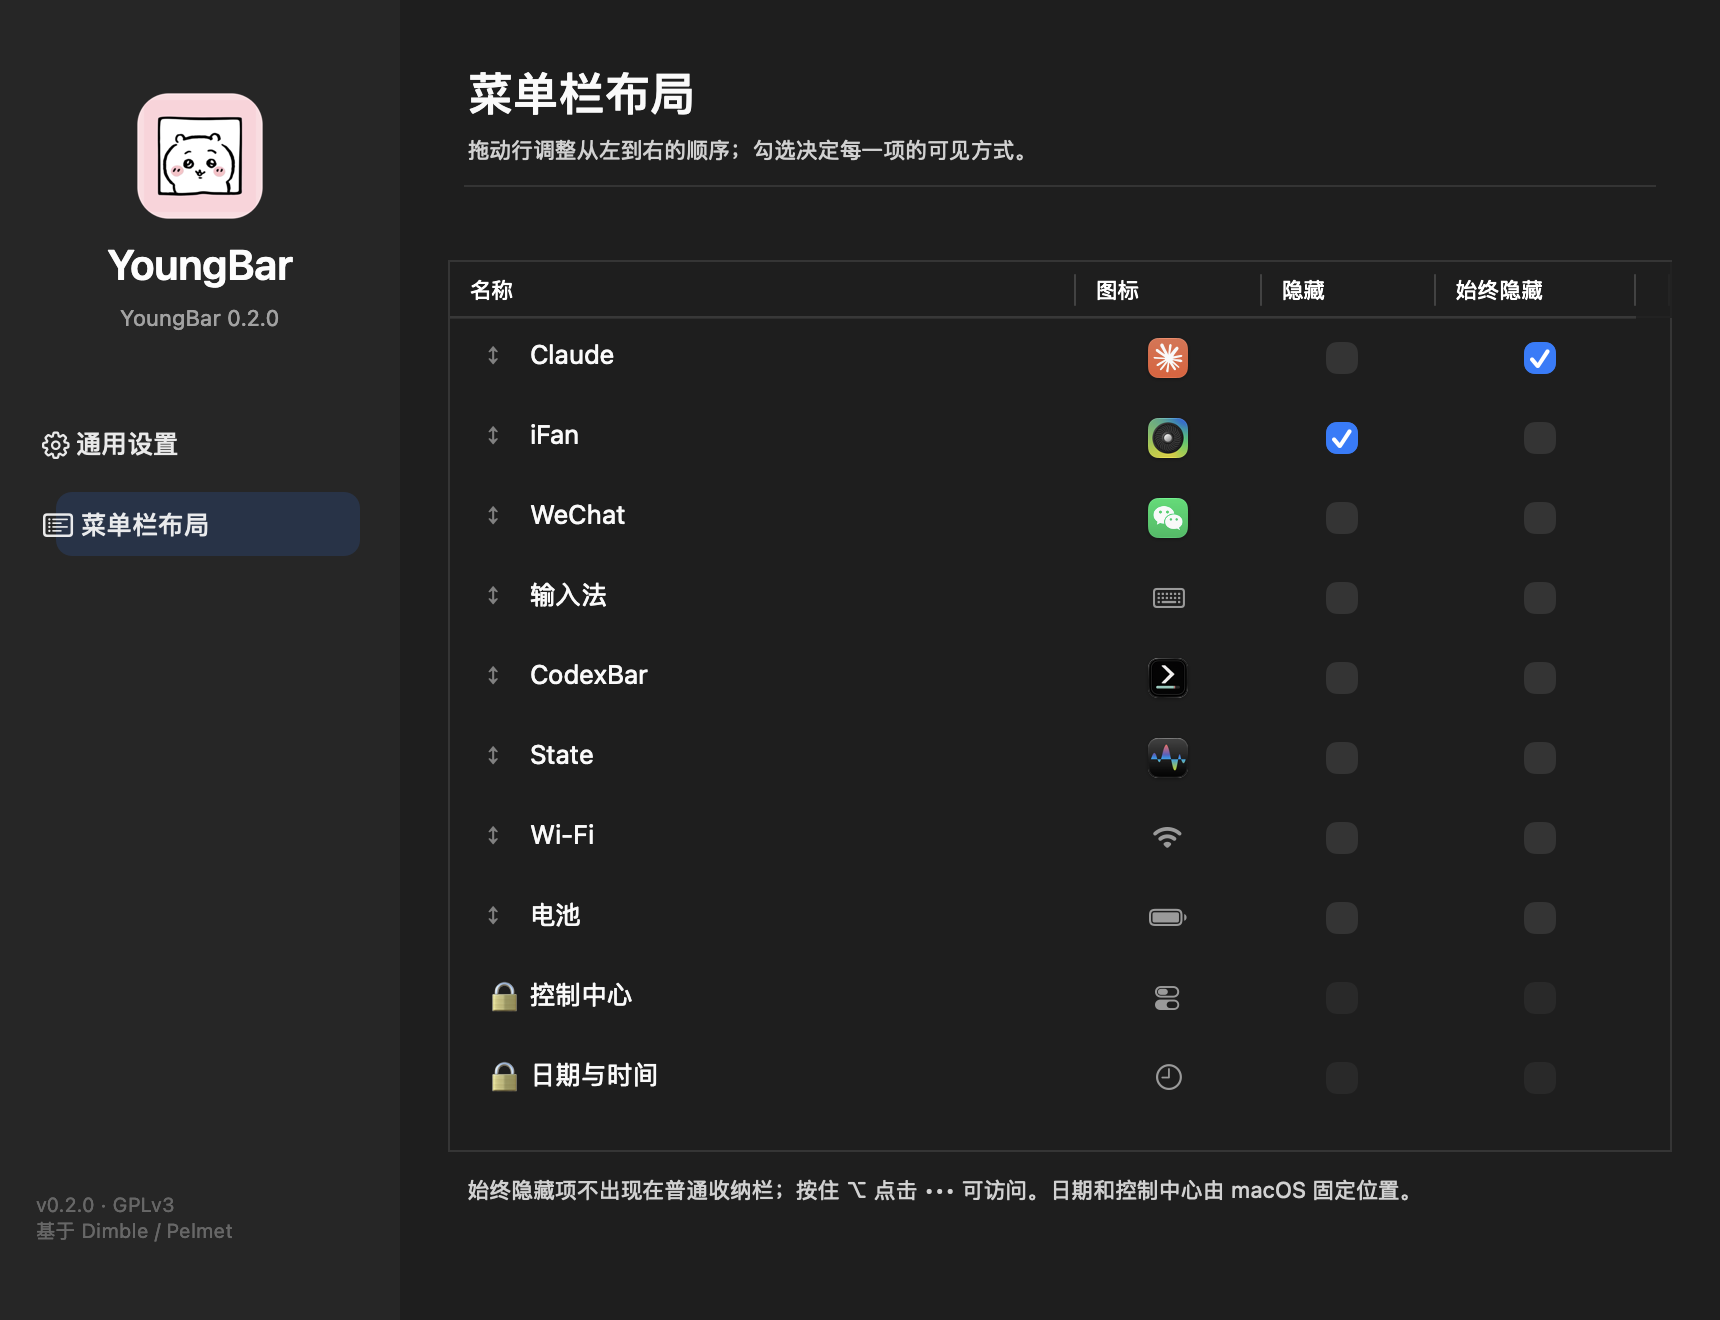
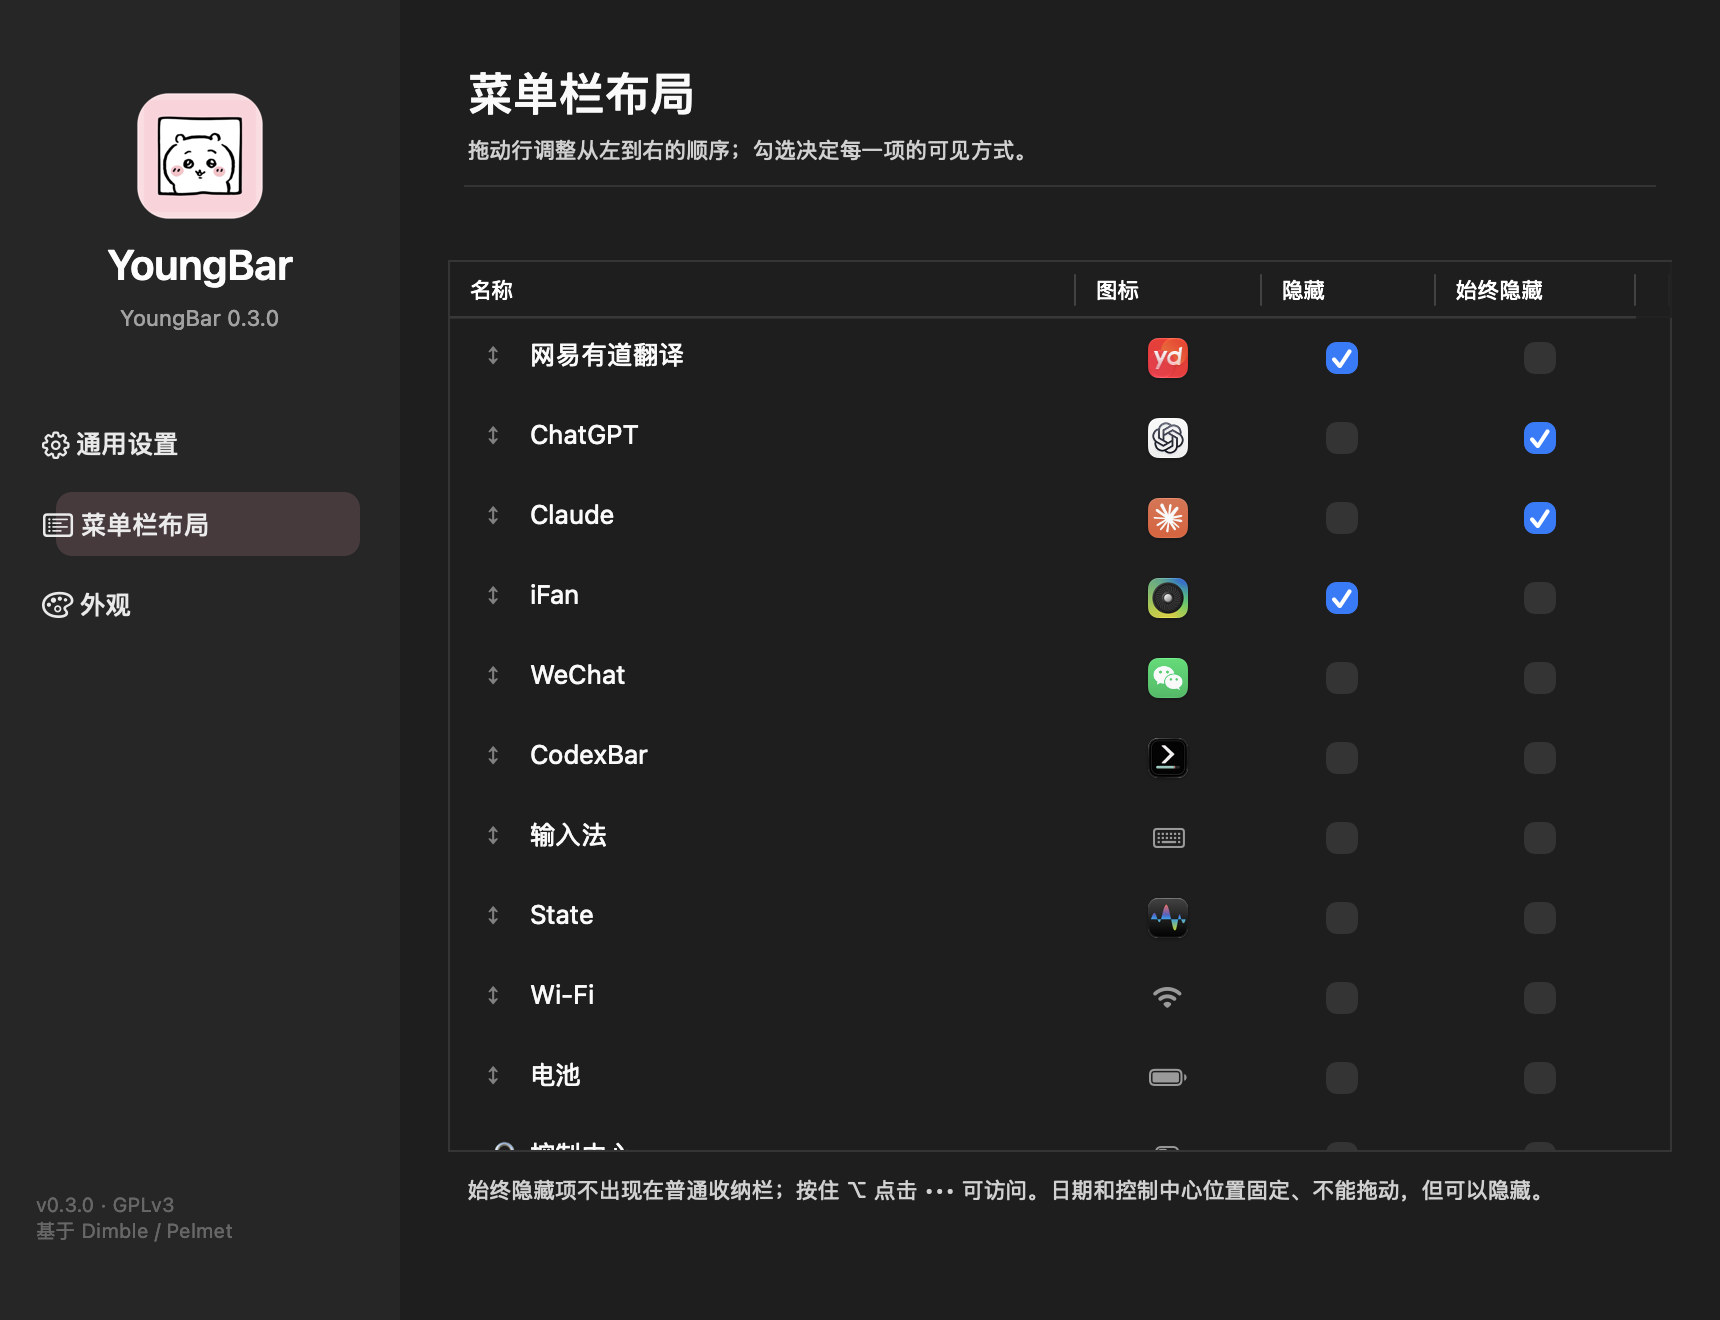
fix(youngbar): 布局顺序按真实位置校准；设置窗口改液态玻璃
- 新项按 frame.minX 插入，不再只追加内存
- 刷新时校准可见项顺序、去重并持久化 itemOrder
- 有道翻译现在排第一，与菜单栏实际位置一致
- 设置窗口 NSGlassEffectView + 主题 tint + 深浅 scrim
- 截图与第 125 轮日志

diff --git a/Sources/YoungBar/main.swift b/Sources/YoungBar/main.swift
@@ -157,6 +157,11 @@ final class BarApp: NSObject, NSApplicationDelegate {
             if ProcessInfo.processInfo.environment["YOUNGBAR_CONCEALTEST"] == "1" {
                 await runConcealTest()
             }
+            if ProcessInfo.processInfo.environment["YOUNGBAR_SETTINGSSHOT"] == "1" {
+                showWindow()
+                try? await Task.sleep(for: .milliseconds(700))
+                await captureScreen(to: "settings-full.png")
+            }
             if let raw = ProcessInfo.processInfo.environment["YOUNGBAR_CLOSEWINDOW_PID"], let pid = pid_t(raw) {
                 await runWindowCleanup(pid: pid)
             }
@@ -738,22 +743,67 @@ final class BarApp: NSObject, NSApplicationDelegate {
         for item in snapshot.items { present.insert(item.id.sectionKey.rawValue) }
         for id in snapshot.concealed { present.insert(id.sectionKey.rawValue) }
         presentKeys = present
-        for item in snapshot.items.sorted(by: { ($0.frame?.minX ?? .greatestFiniteMagnitude) < ($1.frame?.minX ?? .greatestFiniteMagnitude) }) where item.id.bundleID != Bundle.main.bundleIdentifier && MenuBarPolicy.isSectionManageable(item.id) {
+
+        var orderChanged = false
+        let deduped = uniqueKeys(savedOrder)
+        if deduped.count != savedOrder.count {
+            savedOrder = deduped
+            orderChanged = true
+        }
+        for item in snapshot.items.sorted(by: { ($0.frame?.minX ?? .greatestFiniteMagnitude) < ($1.frame?.minX ?? .greatestFiniteMagnitude) })
+        where item.id.bundleID != Bundle.main.bundleIdentifier && MenuBarPolicy.isSectionManageable(item.id) {
             let key = item.id.sectionKey.rawValue
             catalog[key] = item
-            if !savedOrder.contains(key) { savedOrder.append(key) }
+            if !savedOrder.contains(key), let frame = item.frame {
+                // New items belong where they actually sit, not at the end.
+                let index = savedOrder.firstIndex { existing in
+                    guard let existingFrame = catalog[existing]?.frame else { return false }
+                    return existingFrame.minX > frame.minX
+                } ?? savedOrder.endIndex
+                savedOrder.insert(key, at: index)
+                orderChanged = true
+            }
             if let bundle = item.id.bundleID, bundle != PelmetBundle.agentID {
                 knownBundles[bundle] = item.appName ?? appName(for: bundle)
             }
         }
         for id in snapshot.concealed where catalog[id.sectionKey.rawValue] == nil {
             catalog[id.sectionKey.rawValue] = ObservedItem(id: id, frame: nil, appName: nil)
-            if !savedOrder.contains(id.sectionKey.rawValue) { savedOrder.append(id.sectionKey.rawValue) }
+            if !savedOrder.contains(id.sectionKey.rawValue) {
+                savedOrder.append(id.sectionKey.rawValue)
+                orderChanged = true
+            }
         }
         for key in modes.keys where catalog[key] == nil {
             catalog[key] = ObservedItem(id: ItemID(rawValue: key), frame: nil, appName: nil)
-            if !savedOrder.contains(key) { savedOrder.append(key) }
+            if !savedOrder.contains(key) {
+                savedOrder.append(key)
+                orderChanged = true
+            }
         }
+        reconcileVisibleOrder(snapshot)
+        let finalOrder = uniqueKeys(savedOrder)
+        if finalOrder != savedOrder { savedOrder = finalOrder; orderChanged = true }
+        if orderChanged { UserDefaults.standard.set(savedOrder, forKey: "itemOrder") }
+    }
+
+    /// The table is the user's ordering model, but it must not drift from the
+    /// real bar. Whenever the visible items disagree with their saved order,
+    /// rewrite just those slots to the actual left-to-right order and persist.
+    private func reconcileVisibleOrder(_ snapshot: EngineSnapshot) {
+        guard !busy, !capturing else { return }
+        let actual = uniqueKeys(snapshot.items
+            .filter { $0.frame != nil }
+            .sorted { ($0.frame?.minX ?? 0) < ($1.frame?.minX ?? 0) }
+            .map { $0.id.sectionKey.rawValue })
+            .filter { savedOrder.contains($0) }
+        guard actual.count > 1 else { return }
+        let savedVisible = savedOrder.filter { actual.contains($0) }
+        guard savedVisible != actual else { return }
+        var iterator = actual.makeIterator()
+        savedOrder = savedOrder.map { actual.contains($0) ? (iterator.next() ?? $0) : $0 }
+        UserDefaults.standard.set(savedOrder, forKey: "itemOrder")
+        Task { await engine.setModel(currentModel()) }
     }
 
     private func name(for key: String) -> String {
@@ -773,6 +823,11 @@ final class BarApp: NSObject, NSApplicationDelegate {
         }
         if let bundle = id.bundleID { return knownBundles[bundle] ?? appName(for: bundle) }
         return key
+    }
+
+    private func uniqueKeys(_ keys: [String]) -> [String] {
+        var seen = Set<String>()
+        return keys.filter { seen.insert($0).inserted }
     }
 
     private func orderedKeys() -> [String] {

diff --git a/Sources/YoungBar/BarSettings.swift b/Sources/YoungBar/BarSettings.swift
@@ -24,6 +24,10 @@ final class BarSettings: NSObject, NSTableViewDataSource, NSTableViewDelegate {
     var onSpacing: ((Int) -> Void)?
 
     private let window: NSWindow
+    private let glass = NSGlassEffectView()
+    private let scrim = NSView()
+    private let sidebar = NSVisualEffectView()
+    private let sidebarTint = NSView()
     private let generalPage = NSView()
     private let layoutPage = NSView()
     private let appearancePage = NSView()
@@ -60,6 +64,10 @@ final class BarSettings: NSObject, NSTableViewDataSource, NSTableViewDelegate {
         super.init()
         window.title = "YoungBar"
         window.isReleasedWhenClosed = false
+        window.isOpaque = false
+        window.backgroundColor = .clear
+        window.titlebarAppearsTransparent = true
+        window.titleVisibility = .hidden
         window.center()
         window.contentView = buildRoot()
         selectPage("general")
@@ -70,13 +78,30 @@ final class BarSettings: NSObject, NSTableViewDataSource, NSTableViewDelegate {
     private func buildRoot() -> NSView {
         let root = NSView(frame: NSRect(x: 0, y: 0, width: 860, height: 660))
         root.wantsLayer = true
-        root.layer?.backgroundColor = NSColor.windowBackgroundColor.cgColor
+        root.layer?.backgroundColor = NSColor.clear.cgColor
 
-        let sidebar = NSVisualEffectView(frame: NSRect(x: 0, y: 0, width: 200, height: 660))
+        glass.frame = root.bounds
+        glass.autoresizingMask = [.width, .height]
+        glass.style = .regular
+        glass.cornerRadius = 0
+        root.addSubview(glass)
+
+        scrim.frame = root.bounds
+        scrim.autoresizingMask = [.width, .height]
+        scrim.wantsLayer = true
+        root.addSubview(scrim)
+
+        sidebar.frame = NSRect(x: 0, y: 0, width: 200, height: 660)
         sidebar.material = .sidebar
         sidebar.blendingMode = .withinWindow
         sidebar.state = .active
+        sidebar.wantsLayer = true
         root.addSubview(sidebar)
+
+        sidebarTint.frame = sidebar.bounds
+        sidebarTint.autoresizingMask = [.width, .height]
+        sidebarTint.wantsLayer = true
+        sidebar.addSubview(sidebarTint, positioned: .below, relativeTo: nil)
 
         let icon = NSImageView(frame: NSRect(x: 64, y: 546, width: 72, height: 72))
         let iconURL = Bundle.main.url(forResource: "AppIcon", withExtension: "icns")
@@ -119,7 +144,7 @@ final class BarSettings: NSObject, NSTableViewDataSource, NSTableViewDelegate {
 
         let content = NSView(frame: NSRect(x: 200, y: 0, width: 660, height: 660))
         content.wantsLayer = true
-        content.layer?.backgroundColor = NSColor.windowBackgroundColor.cgColor
+        content.layer?.backgroundColor = NSColor.clear.cgColor
         root.addSubview(content)
 
         generalPage.frame = content.bounds
@@ -411,6 +436,12 @@ final class BarSettings: NSObject, NSTableViewDataSource, NSTableViewDelegate {
             button.layer?.borderColor = NSColor.labelColor.cgColor
         }
         for button in navButtons.values { button.highlightColor = theme.accent }
+        glass.tintColor = theme.accent.withAlphaComponent(0.10)
+        sidebarTint.layer?.backgroundColor = theme.accent.withAlphaComponent(0.08).cgColor
+        let isDark = NSApp.effectiveAppearance.bestMatch(from: [.darkAqua, .aqua]) == .darkAqua
+        scrim.layer?.backgroundColor = (isDark
+            ? NSColor.black.withAlphaComponent(0.46)
+            : NSColor.white.withAlphaComponent(0.58)).cgColor
         emptyLabel.isHidden = !entries.isEmpty
         emptyLabel.stringValue = axTrusted ? "正在读取菜单栏图标…" : "需要辅助功能权限后才能读取菜单栏项目。" 
     }

diff --git a/docs/STATUS.md b/docs/STATUS.md
@@ -38,6 +38,8 @@
 | 隐藏 → 展开 → 收起 | ✅ 真机通过 | `selftest.json`：`appeared: true`、`goneAgain: true` |
 | 定时自动收起 | ✅ 20 秒到期后自动收起 | `selftest.json`：`expirySeconds: 20`、`autoHidden: true` |
 | 收纳条 | ✅ 黑色圆角条 | `docs/images/shelf.png` |
+| 设置窗口玻璃 | ✅ `NSGlassEffectView` + 主题染色 + 深浅 scrim | `docs/images/settings-glass-{dark,light}.png` |
+| 布局顺序校准 | ✅ 新项按真实 x 插入；可见项每次刷新校准并持久化 | `itemOrder` 以有道翻译开头；`docs/images/settings-layout.png` |
 | 外观主题 | ✅ 深/浅/跟随系统 + 4 主题色 + 3 种收纳条 | `docs/images/appearance-{dark,light}.png`、`shelf-sakura.png` |
 | 关于窗口 | ✅ 菜单打开，显示版本 0.3.0 (3) | `abouttest.json`；`docs/images/about.png` |
 | 全局快捷键 | ✅ ⌃⌥B 展开 / 收起，无需鼠标 | `hotkeytest.json`：`opened:true`、`closed:true`、`passed:true` |
@@ -71,6 +73,10 @@
 ![菜单栏布局](images/settings-layout.png)
 
 ![收纳条（原始菜单栏内容）](images/shelf.png)
+
+![设置窗口玻璃（深色）](images/settings-glass-dark.png)
+
+![设置窗口玻璃（浅色）](images/settings-glass-light.png)
 
 ![外观（深色）](images/appearance-dark.png)
 

diff --git a/README.md b/README.md
@@ -15,7 +15,7 @@ A keyboard-first menu bar organizer for **macOS 27**. Hide the icons you do not 
 - **Reorder**: ⌘-drag in the real menu bar (verified with a swap-and-restore test) and drag rows in the layout table.
 - **Global hotkey**: ⌃⌥B toggles the strip without the mouse.
 - **Layout table**: Name / Icon / Hide / Always Hidden, with system items included. Date and Control Center keep their macOS-fixed position but can be hidden.
-- **Appearance**: system / light / dark, four accent themes (forest, sakura, amber, graphite), and solid / translucent / vibrant strip materials.
+- **Appearance**: liquid-glass settings window, system / light / dark, four accent themes (forest, sakura, amber, graphite), and solid / translucent / vibrant strip materials.
 - **Settings entry from the strip**: a pinned gear at the right edge.
 - **Local only**: no telemetry, no network. Menu-bar crops are cached in `~/Library/Application Support/YoungBar/pictures.json` and can be cleared from the menu.
 
